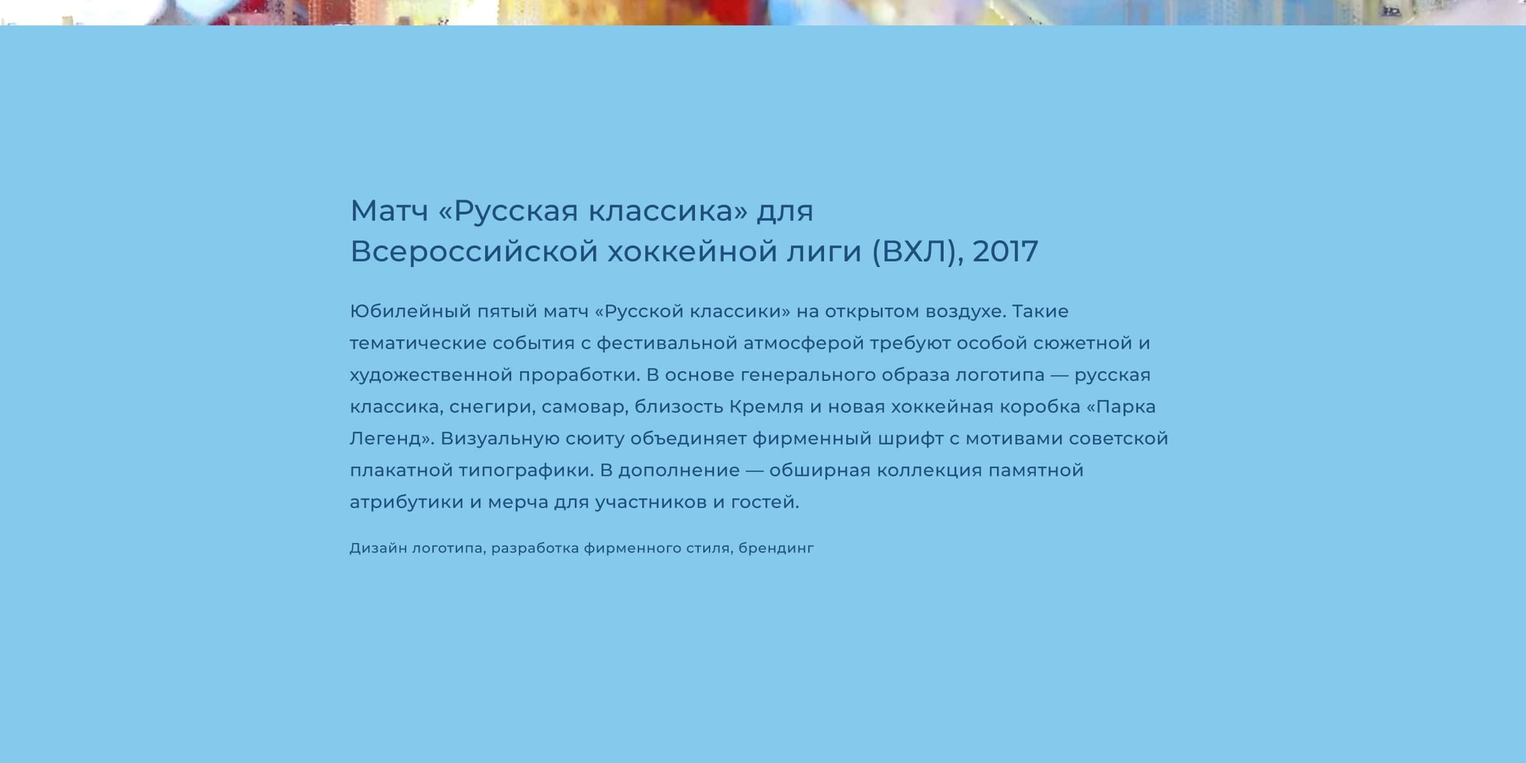
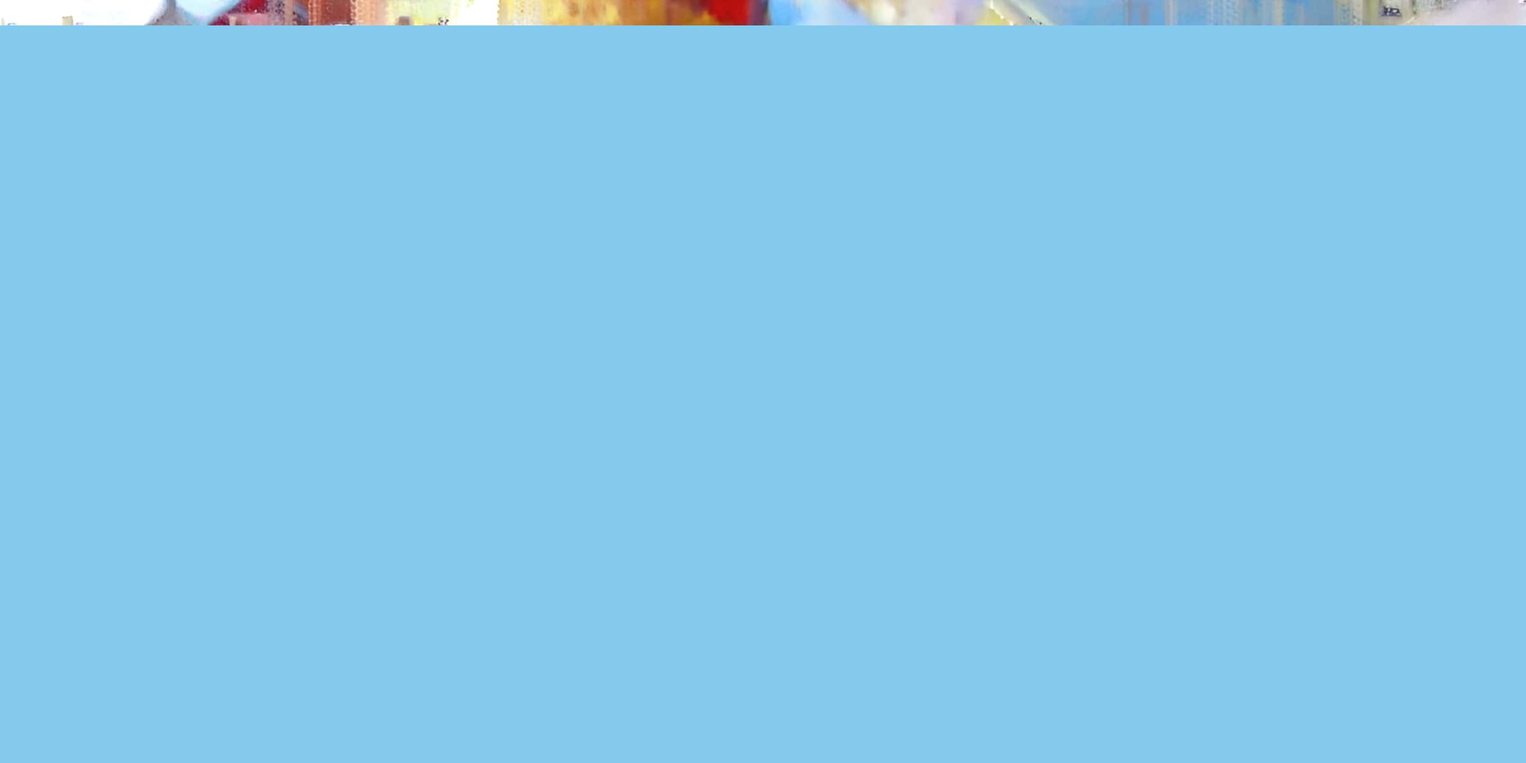
all projects add text

diff --git a/src/pages/routes/projects/LoxinoIslanders.tsx b/src/pages/routes/projects/LoxinoIslanders.tsx
@@ -34,6 +34,27 @@ const LoxinoIslanders: React.FC = () => {
     return (
         <section>
             <Navbar />
+            <div className='absolute xl:left-1/2 xl:-translate-x-1/2 translate-y-[1050px] text-[#23ABDD] px-6 xl:px-0 text-text-routing'>
+                <h1 className='text-[24px] 2xl:text-[32.67px] -tracking-[0.6px] lg:tracking-[0.6px] leading-[36px] lg:leading-[48.3px] pb-[20px]'>
+                    Логотип для хоккейного клуба Loxino Islanders, 2021
+                </h1>
+                <p className='text-[14px] 2xl:text-[18.33px] tracking-[0.5px] leading-[28px] lg:leading-[34px] pb-[54px] lg:pb-[23px]'>
+                    Любительская хоккейная команда с профессиональным подходом.
+                    Дух и сила клуба — в истории малой родины игроков. Детство и
+                    юность нескольких хоккеистов, образовавших основной костяк,
+                    прошли в подмосковной деревне Лохино с 400-летней историей.
+                    Она и послужила базой для будущего харизматичного талисмана
+                    команды. Лосось в природе плавает против течения — это
+                    отличный символ борьбы и преодоления сложностей. В логотипе
+                    он одет в характерный исторический атрибут — картуз и
+                    смотрит на соперников дерзким взглядом, готовым к ярким
+                    победам. Дополнительно была разработана серия сублоготипов и
+                    кастомы для особых случаев.
+                </p>
+                <p className='text-[13px] 2xl:text-[16.67px] tracking-[1px] leading-[22px] lg:leading-[28.3px]'>
+                    Разработка логотипа
+                </p>
+            </div>
             {images.map((image, index) => (
                 <picture key={index}>
                     {image.mobileSrc && (

diff --git a/src/pages/routes/projects/NHLiga.tsx b/src/pages/routes/projects/NHLiga.tsx
@@ -41,6 +41,27 @@ const newishSport: React.FC = () => {
     ];
     return (
         <section>
+            <div className='absolute xl:left-1/2 xl:-translate-x-1/2 translate-y-[1050px] text-[#171F2A] px-6 xl:px-0 text-text-routing'>
+                <h1 className='text-[24px] 2xl:text-[32.67px] -tracking-[0.6px] lg:tracking-[0.6px] leading-[36px] lg:leading-[48.3px] pb-[20px]'>
+                    Редизайн сайта для Ночной Лиги (NHLiga), 2021
+                </h1>
+                <p className='text-[14px] 2xl:text-[18.33px] tracking-[0.5px] leading-[28px] lg:leading-[34px] pb-[54px] lg:pb-[23px]'>
+                    Ведущая в России организация по любительскому хоккею.
+                    Редизайн начался с детального исследования потребностей
+                    аудитории и формирования ключевых особенностей нового
+                    ресурса. Объемный этап прототипирования завершился 48
+                    уникальными страницами и дизайн-гайдом. Определили структуру
+                    и предусмотрели оптимальные решения для «горячих» мест на
+                    сайте. Теперь на главной странице все самое полезное и
+                    востребованное: свежие новости, тематические подборки по
+                    событиям и активациям лиги, галерея, статистика и лидеры.
+                    Бонусно собрали стильный и информативный лендинг о NHLiga с
+                    главными цифрами, рекордами и наградами.
+                </p>
+                <p className='text-[13px] 2xl:text-[16.67px] tracking-[1px] leading-[22px] lg:leading-[28.3px]'>
+                    UX/UI дизайн, лендинг
+                </p>
+            </div>
             <Navbar />
             {images.map((image, index) => (
                 <picture key={index}>

diff --git a/src/pages/routes/projects/FHR.tsx b/src/pages/routes/projects/FHR.tsx
@@ -34,6 +34,27 @@ const FHR: React.FC = () => {
     ];
     return (
         <section>
+            <div className='absolute xl:left-1/2 xl:-translate-x-1/2 translate-y-[1050px] text-white px-6 xl:px-0 text-text-routing'>
+                <h1 className='text-[24px] 2xl:text-[32.67px] -tracking-[0.6px] lg:tracking-[0.6px] leading-[36px] lg:leading-[48.3px] pb-[20px]'>
+                    Лендинг для Федерации Хоккея России (FHR), 2021
+                </h1>
+                <p className='text-[14px] 2xl:text-[18.33px] tracking-[0.5px] leading-[28px] lg:leading-[34px] pb-[54px] lg:pb-[23px]'>
+                    Великая история СССР – Канада. По запросу нашего постоянного
+                    клиента ФХР разработали тематический лендинг, посвященный
+                    75-летней истории хоккея. Стиль современной летописи с
+                    удобной навигацией по годам планомерно погружает
+                    пользователя в богатую историю важнейшего спорта страны.
+                    Блочная структура не перегружает внимание: лендинг разбит на
+                    десятилетия, сопровождаемые историческими фотографиями,
+                    рекордами, фактами и художественно-историческими элементами
+                    тех событий. Выразительные акценты расставлены с помощью
+                    микроанимации. Лендинг адаптирован под разные устройства и
+                    дополнен промороликом.
+                </p>
+                <p className='text-[13px] 2xl:text-[16.67px] tracking-[1px] leading-[22px] lg:leading-[28.3px]'>
+                    Лендинг пейдж
+                </p>
+            </div>
             <Navbar />
             {images.map((image, index) => (
                 <picture key={index}>

diff --git a/src/pages/routes/projects-more/CrazyOwl.tsx b/src/pages/routes/projects-more/CrazyOwl.tsx
@@ -51,6 +51,27 @@ const CrazyOwl: React.FC = () => {
     return (
         <section>
             <Navbar />
+            <div className='absolute xl:left-1/2 xl:-translate-x-1/2 translate-y-[1050px] text-[#E2E2E2] px-6 xl:px-0 text-text-routing'>
+                <h1 className='text-[24px] 2xl:text-[32.67px] -tracking-[0.6px] lg:tracking-[0.6px] leading-[36px] lg:leading-[48.3px] pb-[20px]'>
+                    Ультрамарафон Crazy Owl 50 для Running Heroes Russia (RHR),
+                    2022
+                </h1>
+                <p className='text-[14px] 2xl:text-[18.33px] tracking-[0.5px] leading-[28px] lg:leading-[34px] pb-[54px] lg:pb-[23px]'>
+                    Ежегодная ночная титульная гонка «Шальная сова» (Crazy Owl)
+                    от RHR. Каждый финишер забирает с собой незабываемые
+                    приключения и статут от международной ассоциации Trail
+                    Running (ITRA). Обязательные атрибуты экстремального
+                    50-километрового ультрамарафона: кромешная ночь, дымовые
+                    шашки, лазеры и полный рок-н-ролл. Разработали особенный
+                    фирменный стиль для особенного марафона: отрисовали символ
+                    гонки — сову, обыграли природные локации в растительных
+                    орнаментах, добавили динамичные элементы и создали шрифты с
+                    дерзким характером события. 
+                </p>
+                <p className='text-[13px] 2xl:text-[16.67px] tracking-[1px] leading-[22px] lg:leading-[28.3px]'>
+                    Разработка фирменного стиля, брендинг
+                </p>
+            </div>
             {images.map((image, index) => (
                 <picture key={index}>
                     {image.mobileSrc && (

diff --git a/src/pages/routes/projects/SBC.tsx b/src/pages/routes/projects/SBC.tsx
@@ -31,6 +31,27 @@ const SBC: React.FC = () => {
     ];
     return (
         <section>
+            <div className='absolute xl:left-1/2 xl:-translate-x-1/2 translate-y-[1050px] text-white px-6 xl:px-0 text-text-routing'>
+                <h1 className='text-[24px] 2xl:text-[32.67px] -tracking-[0.6px] lg:tracking-[0.6px] leading-[36px] lg:leading-[48.3px] pb-[20px]'>
+                    Редизайн сайта для «СБК. Спорт Бизнес Консалтинг» (SBC),
+                    2022
+                </h1>
+                <p className='text-[14px] 2xl:text-[18.33px] tracking-[0.5px] leading-[28px] lg:leading-[34px] pb-[54px] lg:pb-[23px]'>
+                    Авторитетный медиапроект на стыке спорта и маркетинга.
+                    Совместно с редакцией СБК разработали прототип нового
+                    дизайна сайта, стилеобразующие элементы и фирменные детали.
+                    Переработали рубрикатор и систематизировали контент,
+                    добавили тегирование и полезную сортировку самых посещаемых
+                    разделов. Оптимизировали типографику и решения цветовой
+                    палитры, улучшили UX личного кабинета. Новый сайт СБК
+                    приобрел удобный для пользователей блок Бизнес-клуба,
+                    понятный каталог сооружений, наглядный календарь спортивных
+                    событий и полноценную мобильную версию.
+                </p>
+                <p className='text-[13px] 2xl:text-[16.67px] tracking-[1px] leading-[22px] lg:leading-[28.3px]'>
+                    UX/UI дизайн
+                </p>
+            </div>
             <Navbar />
             {images.map((image, index) => (
                 <picture key={index}>

diff --git a/src/pages/routes/projects/NHLiga-Festival.tsx b/src/pages/routes/projects/NHLiga-Festival.tsx
@@ -41,6 +41,26 @@ const newishSport: React.FC = () => {
     ];
     return (
         <section>
+            <div className='absolute xl:left-1/2 xl:-translate-x-1/2 translate-y-[1050px] text-white px-6 xl:px-0 text-text-routing'>
+                <h1 className='text-[24px] 2xl:text-[32.67px] -tracking-[0.6px] lg:tracking-[0.6px] leading-[36px] lg:leading-[48.3px] pb-[20px]'>
+                    «Фестиваль хоккея 2021» для Ночной Лиги (NHLiga), 2021
+                </h1>
+                <p className='text-[14px] 2xl:text-[18.33px] tracking-[0.5px] leading-[28px] lg:leading-[34px] pb-[54px] lg:pb-[23px]'>
+                    Самый масштабный проект любительского хоккея в России. Финал
+                    сезона ежегодно проходит в мае на берегу Черного моря — в
+                    Олимпийской деревне Сочи. Знаковое событие объединяет тысячи
+                    зрителей и лучших из лучших среди 1 207 команд и 23 272
+                    участников. Разработали идейно-художественную базу, создали
+                    концептуальный нарратив и изготовление фирменный мерч
+                    фестиваля. Для финального этапа 2020/21 отрисовали
+                    стилизованную иллюстрацию с выдающимися игроками прошлых
+                    сезонов, которая стала ключевым визуальным образом
+                    фестиваля.
+                </p>
+                <p className='text-[13px] 2xl:text-[16.67px] tracking-[1px] leading-[22px] lg:leading-[28.3px]'>
+                    Продюсирование события, разработка ключевых нарративов, мерч
+                </p>
+            </div>
             <Navbar />
             {images.map((image, index) => (
                 <picture key={index}>

diff --git a/src/pages/routes/projects-more/VHL.tsx b/src/pages/routes/projects-more/VHL.tsx
@@ -45,6 +45,26 @@ const VHL: React.FC = () => {
     return (
         <section>
             <Navbar />
+            <div className='absolute xl:left-1/2 xl:-translate-x-1/2 translate-y-[1050px] text-[#1E4E7E] px-6 xl:px-0 text-text-routing'>
+                <h1 className='text-[24px] 2xl:text-[32.67px] -tracking-[0.6px] lg:tracking-[0.6px] leading-[36px] lg:leading-[48.3px] pb-[20px]'>
+                    Матч «Русская классика» для Всероссийской хоккейной лиги
+                    (ВХЛ), 2017
+                </h1>
+                <p className='text-[14px] 2xl:text-[18.33px] tracking-[0.5px] leading-[28px] lg:leading-[34px] pb-[54px] lg:pb-[23px]'>
+                    Юбилейный пятый матч «Русской классики» на открытом воздухе.
+                    Такие тематические события с фестивальной атмосферой требуют
+                    особой сюжетной и художественной проработки. В основе
+                    генерального образа логотипа — русская классика, снегири,
+                    самовар, близость Кремля и новая хоккейная коробка «Парка
+                    Легенд». Визуальную сюиту объединяет фирменный шрифт с
+                    мотивами советской плакатной типографики. В дополнение —
+                    обширная коллекция памятной атрибутики и мерча для
+                    участников и гостей.
+                </p>
+                <p className='text-[13px] 2xl:text-[16.67px] tracking-[1px] leading-[22px] lg:leading-[28.3px]'>
+                    Дизайн логотипа, разработка фирменного стиля, брендинг
+                </p>
+            </div>
             {images.map((image, index) => (
                 <picture key={index}>
                     {image.mobileSrc && (

diff --git a/src/pages/routes/projects/NewishSport.tsx b/src/pages/routes/projects/NewishSport.tsx
@@ -51,6 +51,25 @@ const NewishSport: React.FC = () => {
     return (
         <section>
             <Navbar />
+            <div className='absolute xl:left-1/2 xl:-translate-x-1/2 translate-y-[1050px] text-white px-6 xl:px-0 text-text-routing'>
+                <h1 className='text-[24px] 2xl:text-[32.67px] -tracking-[0.6px] lg:tracking-[0.6px] leading-[36px] lg:leading-[48.3px] pb-[20px]'>
+                    Дизайн бренда для Newish Sport, 2022
+                </h1>
+                <p className='text-[14px] 2xl:text-[18.33px] tracking-[0.5px] leading-[28px] lg:leading-[34px] pb-[54px] lg:pb-[23px]'>
+                    Производитель профессиональной экипировки с локальной
+                    швейной фабрикой и модельерным бюро. Бренд специализируется
+                    на изготовлении спортивной формы для триатлонистов,
+                    конькобежцев, лыжников, ультрамарофонцев и велоспортсменов.
+                    Перед нами стояла задача уйти от триколорной преемственности
+                    (белый, синий, красный) и создать динамичный образ бренда,
+                    отражающий специфику компании, интересы и характер ее ЦА.
+                    Провели аналитику, разработали главный паттерн и общую
+                    концепцию нового бренд-позиционирования Newish Sport.
+                </p>
+                <p className='text-[13px] 2xl:text-[16.67px] tracking-[1px] leading-[22px] lg:leading-[28.3px]'>
+                    Логотип бренда, корпоративная айдентика 
+                </p>
+            </div>
             {images.map((image, index) => (
                 <picture key={index}>
                     {image.mobileSrc && (

diff --git a/src/pages/routes/projects/SamboCup.tsx b/src/pages/routes/projects/SamboCup.tsx
@@ -50,6 +50,26 @@ const SamboCup: React.FC = () => {
     ];
     return (
         <section>
+            <div className='absolute xl:left-1/2 xl:-translate-x-1/2 translate-y-[1050px] text-white px-6 xl:px-0 text-text-routing'>
+                <h1 className='text-[24px] 2xl:text-[32.67px] -tracking-[0.6px] lg:tracking-[0.6px] leading-[36px] lg:leading-[48.3px] pb-[20px]'>
+                    Open European SAMBO cup. Romania для Международной Федерации
+                    Самбо (FIAS), 2021
+                </h1>
+                <p className='text-[14px] 2xl:text-[18.33px] tracking-[0.5px] leading-[28px] lg:leading-[34px] pb-[54px] lg:pb-[23px]'>
+                    FIAS руководит развитием самбо в мире и регулярно проводит
+                    локальные и международные чемпионаты. Один из них — Open
+                    European SAMBO cup. Romania. Разработали для
+                    континентального события символичный логотип и фирменный
+                    стиль с динамичными акцентами. Визуальной доминантой в
+                    логотипе стал силуэт Триумфальной арки — талисмана
+                    Бухареста. На ее фасаде «проецируются» важные детали о
+                    чемпионате: дата и место проведения, титульный спонсор и
+                    принадлежность к FIAS.
+                </p>
+                <p className='text-[13px] 2xl:text-[16.67px] tracking-[1px] leading-[22px] lg:leading-[28.3px]'>
+                    Логотип турнира, фирменный стиль
+                </p>
+            </div>
             <Navbar />
             {images.map((image, index) => (
                 <picture key={index}>

diff --git a/src/pages/routes/projects-more/FHR.tsx b/src/pages/routes/projects-more/FHR.tsx
@@ -29,6 +29,25 @@ const FHR: React.FC = () => {
     return (
         <section>
             <Navbar />
+            <div className='absolute xl:left-1/2 xl:-translate-x-1/2 translate-y-[1050px] text-white px-6 xl:px-0 text-text-routing'>
+                <h1 className='text-[24px] 2xl:text-[32.67px] -tracking-[0.6px] lg:tracking-[0.6px] leading-[36px] lg:leading-[48.3px] pb-[20px]'>
+                    Образовательный проект для Федерации Хоккея России (FHR),
+                    2017
+                </h1>
+                <p className='text-[14px] 2xl:text-[18.33px] tracking-[0.5px] leading-[28px] lg:leading-[34px] pb-[54px] lg:pb-[23px]'>
+                    Важный проект для национального спорта России. Разработали
+                    большой кейс из трех книг и пособия с упражнениями для
+                    молодых хоккеистов, которые хотят стать чемпионами. Единая
+                    визуальная система и фирменный стиль созданы с учетом
+                    философии и ключевых паттернов спортивной культуры ФХР.
+                    Издание стало новым стандартом для обучения будущих
+                    профессиональных хоккеистов по всей стране. Разработано
+                    совместно с ИД «Просвещение». 
+                </p>
+                <p className='text-[13px] 2xl:text-[16.67px] tracking-[1px] leading-[22px] lg:leading-[28.3px]'>
+                    Дизайн, верстка, издательская деятельность
+                </p>
+            </div>
             {images.map((image, index) => (
                 <picture key={index}>
                     {image.mobileSrc && (

diff --git a/src/pages/routes/projects-more/IIHF.tsx b/src/pages/routes/projects-more/IIHF.tsx
@@ -40,6 +40,23 @@ const IIHF: React.FC = () => {
     return (
         <section>
             <Navbar />
+            <div className='absolute xl:left-1/2 xl:-translate-x-1/2 translate-y-[1050px] text-[#30FFE9] px-6 xl:px-0 text-text-routing'>
+                <h1 className='text-[24px] 2xl:text-[32.67px] -tracking-[0.6px] lg:tracking-[0.6px] leading-[36px] lg:leading-[48.3px] pb-[20px]'>
+                    Кубок мира для Международной федерации хоккея на льду
+                    (IIHF), 2016
+                </h1>
+                <p className='text-[14px] 2xl:text-[18.33px] tracking-[0.5px] leading-[28px] lg:leading-[34px] pb-[54px] lg:pb-[23px]'>
+                    Шестой Кубок мира среди молодежных команд и второй в истории
+                    МХЛ российский финал. Матч состоялся в двух городах
+                    Татарстана — Нижнекамске и Набережных Челнах. Традиционные
+                    мотивы республики были использованы в фирменном стиле и
+                    логотипе Кубка. Обновлен леттеринг и отрисован доминирующий
+                    элемент (хоккеист). Эмблема выполнена с эффектом 3D-объема.
+                </p>
+                <p className='text-[13px] 2xl:text-[16.67px] tracking-[1px] leading-[22px] lg:leading-[28.3px]'>
+                    Разработка фирменного стиля и логотипа, брендинг
+                </p>
+            </div>
             {images.map((image, index) => (
                 <picture key={index}>
                     {image.mobileSrc && (

diff --git a/src/pages/routes/projects-more/NHLiga.tsx b/src/pages/routes/projects-more/NHLiga.tsx
@@ -50,6 +50,23 @@ const NHLiga: React.FC = () => {
     return (
         <section>
             <Navbar />
+            <div className='absolute xl:left-1/2 xl:-translate-x-1/2 translate-y-[1050px] text-[#3E5697] px-6 xl:px-0 text-text-routing'>
+                <h1 className='text-[24px] 2xl:text-[32.67px] -tracking-[0.6px] lg:tracking-[0.6px] leading-[36px] lg:leading-[48.3px] pb-[20px]'>
+                    Серия логотипов «Кубок Чемпионов» для Ночной Лиги (NHLiga),
+                    2021
+                </h1>
+                <p className='text-[14px] 2xl:text-[18.33px] tracking-[0.5px] leading-[28px] lg:leading-[34px] pb-[54px] lg:pb-[23px]'>
+                    NHLiga обратилась с запросом сделать редизайн фирменных
+                    эмблем команд. Серия логотипов стала особенным подарком для
+                    победителей прошлых сезонов «Кубка Чемпионов». Обновленные
+                    эмблемы были вышиты на игровых комплектах формы, которые
+                    получила каждая из шести команд-финалистов во время первого
+                    матча чемпионата.
+                </p>
+                <p className='text-[13px] 2xl:text-[16.67px] tracking-[1px] leading-[22px] lg:leading-[28.3px]'>
+                    Редизайн логотипов
+                </p>
+            </div>
             {images.map((image, index) => (
                 <picture key={index}>
                     {image.mobileSrc && (
